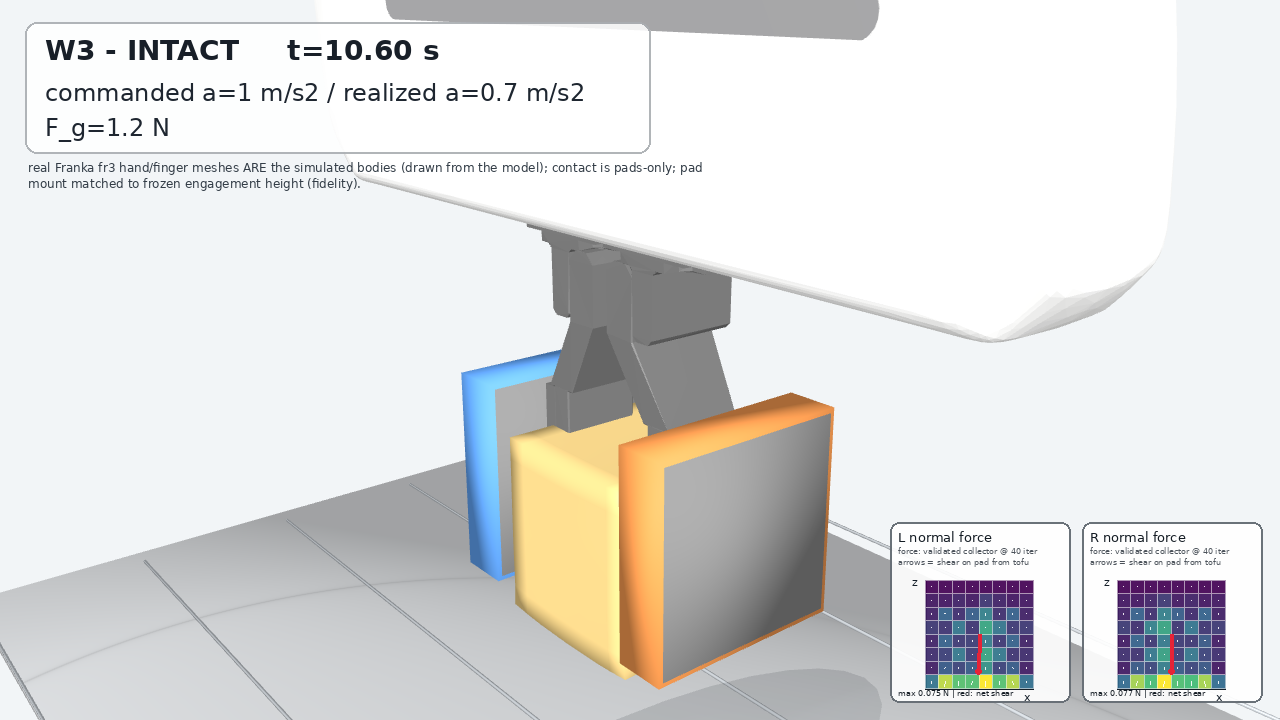
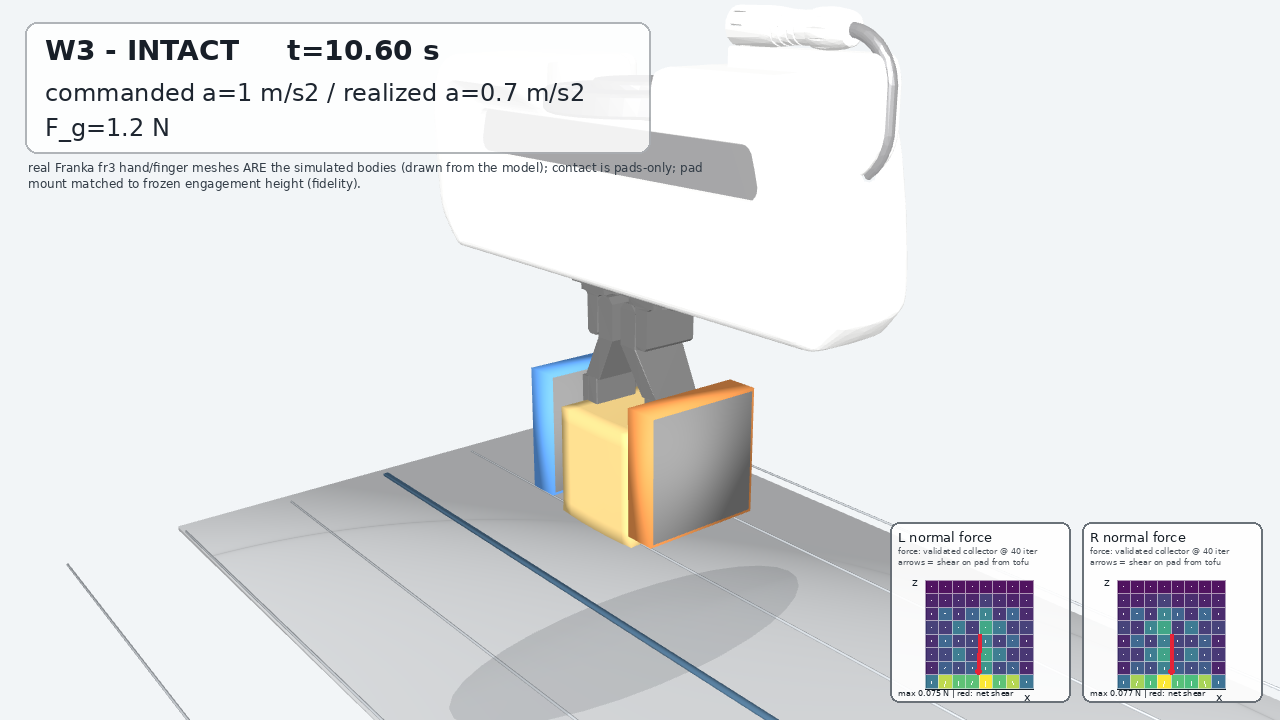
v11 intact camera relaxed to 0.52x + world-fixed start tick (judge revision); full gripper in frame, amplitude 96px
Intact: damage angle at 0.52x distance (1.92x closer) -> gripper_fully_in_frame=true at
all stills + blue-pad amplitude 96px (>=90 revised gate); added an intact-only world-fixed
track tick at the frozen palm start x so the 0.045m out-and-back reads. Shell lum 250-252,
insets mirrored. slip/damage stills already judge-APPROVED. No mp4 encoded (awaiting intact
APPROVED per the review gate). Render-only; physics/labels/frozen data untouched.

diff --git a/scripts/vbd/w3_pro_render.py b/scripts/vbd/w3_pro_render.py
@@ -224,7 +224,7 @@ def camera_for(files, scene, version=2):
         # frozen 4.5 cm intact excursion remains visibly measurable.
         start_x=xs[0]
         target=np.array((start_x,0,.11))
-        eye=target+np.array((-.48,-.58,.24))*.31
+        eye=target+np.array((-.48,-.58,.24))*.52
     return look_at(eye,target), (lo,hi), eye, target
 
 
@@ -597,6 +597,11 @@ def pyrender_frame(q,bodies,t,scene,meta,boundary,tets,inv_dm,camera,xlim,versio
     mid=sum(xlim)/2; ground=trimesh.creation.box((xlim[1]-xlim[0],.42,.002)); ground.apply_translation((mid,0,-.002))
     sc.add(pyrender.Mesh.from_trimesh(ground,material=pyrender.MetallicRoughnessMaterial(baseColorFactor=(.86,.88,.90,1),roughnessFactor=1)))
     for x in np.arange(np.floor(xlim[0]/.05)*.05,xlim[1]+.05,.05): box((.0007,.40,.0008),(.62,.66,.70),np.array(((1,0,0,x),(0,1,0,0),(0,0,1,.0003),(0,0,0,1))))
+    if version >= 11 and scene == "intact":
+        # Fixed world reference for the short quasi-static out-and-back.
+        start_x=float(meta["intact_palm_start_x"])
+        box((.0025,.40,.0012),(.08,.18,.30),
+            np.array(((1,0,0,start_x),(0,1,0,0),(0,0,1,.0008),(0,0,0,1))))
     shadow=trimesh.creation.cylinder(radius=.045,height=.0006); shadow.apply_scale((1.8,.65,1)); shadow.apply_translation((q[:,0].mean(),q[:,1].mean(),.0005))
     sc.add(pyrender.Mesh.from_trimesh(shadow,material=pyrender.MetallicRoughnessMaterial(baseColorFactor=(.12,.14,.16,.18),alphaMode="BLEND")))
     sc.add(pyrender.PerspectiveCamera(yfov=np.deg2rad(34)),pose=camera)
@@ -723,6 +728,9 @@ def render_scene(scene, smoke=False, version=2):
     else:
         BODY_REORDER=None
     files=snapshots(scene,version); first,_,_=load_frame(files[0])
+    if version >= 11 and scene == "intact":
+        _,start_bodies,_=load_frame(files[0])
+        meta["intact_palm_start_x"]=float(start_bodies[1,0])
     settle_index=None
     if version >= 5 and scene == "slip":
         if load_frame(files[-1])[2] <= float(meta["drop_t"]):
